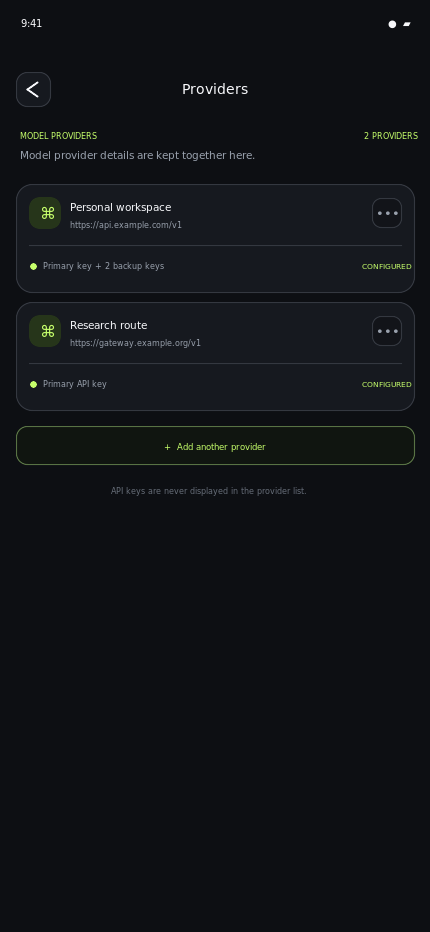
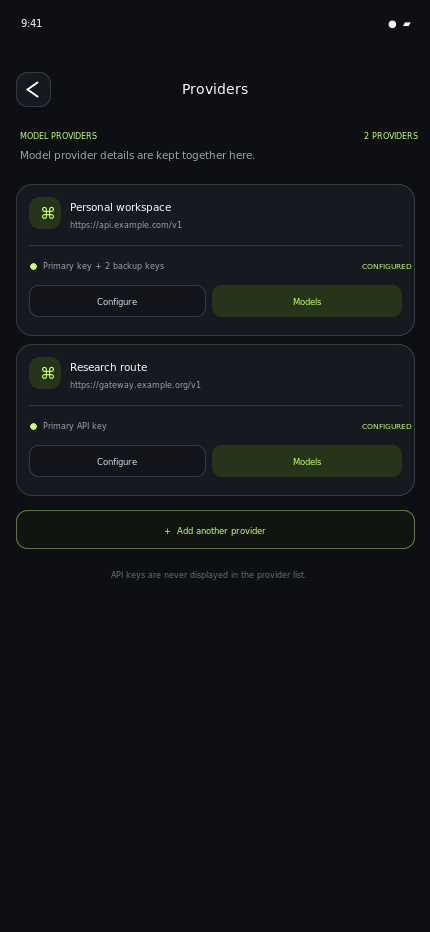
design: add provider configuration and model selection

diff --git a/settings-page.html b/settings-page.html
@@ -56,7 +56,7 @@
     .providers-topbar { display:grid; grid-template-columns:34px minmax(0,1fr) 34px; align-items:center; gap:9px; padding:calc(42px + env(safe-area-inset-top)) 16px 14px; }.providers-topbar h2 { margin:0; font-size:14px; font-weight:800; letter-spacing:-.035em; text-align:center; }.providers-back, .providers-spacer { display:grid; width:34px; height:34px; place-items:center; border:1px solid var(--line); border-radius:11px; background:var(--surface); color:var(--text); }.providers-back svg { width:16px; height:16px; fill:none; stroke:currentColor; stroke-linecap:round; stroke-linejoin:round; stroke-width:1.9; }.providers-spacer { visibility:hidden; }
     .providers-content { padding:4px 16px; }.providers-content > p { margin:0 4px 18px; color:var(--muted); font-size:11px; line-height:1.5; }.providers-empty { display:grid; min-height:340px; place-content:center; padding:26px; border:1px dashed rgba(255,255,255,.16); border-radius:20px; background:var(--surface-soft); text-align:center; }.providers-empty-icon { display:grid; width:43px; height:43px; place-items:center; margin:0 auto; border-radius:14px; background:var(--accent-wash); color:var(--accent); }.providers-empty-icon svg { width:21px; height:21px; fill:none; stroke:currentColor; stroke-linecap:round; stroke-linejoin:round; stroke-width:1.8; }.providers-empty h3 { margin:14px 0 6px; font-size:15px; letter-spacing:-.04em; }.providers-empty p { max-width:240px; margin:0; color:var(--muted); font-size:10px; line-height:1.55; }.add-provider { display:flex; align-items:center; justify-content:center; gap:7px; width:100%; height:39px; margin-top:15px; border:0; border-radius:11px; background:var(--accent); color:var(--accent-ink); font-size:10px; font-weight:850; }.add-provider svg { width:14px; height:14px; fill:none; stroke:currentColor; stroke-linecap:round; stroke-width:2.1; }
 
-    .providers-list { display:grid; gap:9px; }.providers-list-head { display:flex; align-items:center; justify-content:space-between; margin:0 4px 10px; }.providers-list-head b { color:var(--text-soft); font-size:10px; }.providers-list-head span { color:var(--accent); font-family:var(--mono); font-size:8px; }.provider-card { padding:12px; border:1px solid var(--line); border-radius:16px; background:var(--surface); }.provider-card-top { display:grid; grid-template-columns:31px minmax(0,1fr) 30px; align-items:center; gap:9px; }.provider-card-icon { display:grid; width:31px; height:31px; place-items:center; border-radius:10px; background:var(--accent-wash); color:var(--accent); }.provider-card-icon svg { width:15px; height:15px; fill:none; stroke:currentColor; stroke-linecap:round; stroke-linejoin:round; stroke-width:1.8; }.provider-card-copy { min-width:0; }.provider-card-name, .provider-card-url { display:block; overflow:hidden; text-overflow:ellipsis; white-space:nowrap; }.provider-card-name { color:var(--text); font-size:10.5px; font-weight:800; letter-spacing:-.018em; }.provider-card-url { margin-top:3px; color:var(--muted); font-family:var(--mono); font-size:8px; }.provider-menu { display:grid; width:30px; height:30px; place-items:center; border:1px solid var(--line); border-radius:9px; background:var(--surface-soft); color:var(--muted); font-size:15px; line-height:1; }.provider-card-meta { display:flex; align-items:center; justify-content:space-between; gap:9px; margin-top:11px; padding-top:10px; border-top:1px solid var(--line); }.provider-card-meta span { display:flex; align-items:center; gap:6px; min-width:0; color:var(--muted); font-family:var(--mono); font-size:8px; }.provider-card-meta i { width:6px; height:6px; flex:0 0 auto; border-radius:50%; background:var(--accent); box-shadow:0 0 0 3px var(--accent-wash); }.provider-card-meta b { color:var(--accent); font-family:var(--mono); font-size:7.5px; font-weight:500; letter-spacing:.04em; }.add-another-provider { display:flex; align-items:center; justify-content:center; gap:7px; width:100%; height:38px; margin-top:6px; border:1px dashed rgba(198,255,107,.38); border-radius:11px; background:transparent; color:var(--accent); font-family:var(--mono); font-size:8.5px; font-weight:500; }.add-another-provider svg { width:13px; height:13px; fill:none; stroke:currentColor; stroke-linecap:round; stroke-width:2; }
+    .providers-list { display:grid; gap:9px; }.providers-list-head { display:flex; align-items:center; justify-content:space-between; margin:0 4px 10px; }.providers-list-head b { color:var(--text-soft); font-size:10px; }.providers-list-head span { color:var(--accent); font-family:var(--mono); font-size:8px; }.provider-card { padding:12px; border:1px solid var(--line); border-radius:16px; background:var(--surface); }.provider-card-top { display:grid; grid-template-columns:31px minmax(0,1fr); align-items:center; gap:9px; }.provider-card-icon { display:grid; width:31px; height:31px; place-items:center; border-radius:10px; background:var(--accent-wash); color:var(--accent); }.provider-card-icon svg { width:15px; height:15px; fill:none; stroke:currentColor; stroke-linecap:round; stroke-linejoin:round; stroke-width:1.8; }.provider-card-copy { min-width:0; }.provider-card-name, .provider-card-url { display:block; overflow:hidden; text-overflow:ellipsis; white-space:nowrap; }.provider-card-name { color:var(--text); font-size:10.5px; font-weight:800; letter-spacing:-.018em; }.provider-card-url { margin-top:3px; color:var(--muted); font-family:var(--mono); font-size:8px; }.provider-card-meta { display:flex; align-items:center; justify-content:space-between; gap:9px; margin-top:11px; padding-top:10px; border-top:1px solid var(--line); }.provider-card-meta span { display:flex; align-items:center; gap:6px; min-width:0; color:var(--muted); font-family:var(--mono); font-size:8px; }.provider-card-meta i { width:6px; height:6px; flex:0 0 auto; border-radius:50%; background:var(--accent); box-shadow:0 0 0 3px var(--accent-wash); }.provider-card-meta b { color:var(--accent); font-family:var(--mono); font-size:7.5px; font-weight:500; letter-spacing:.04em; }.provider-card-actions { display:grid; grid-template-columns:1fr 1fr; gap:7px; margin-top:10px; }.provider-card-action { display:flex; align-items:center; justify-content:center; gap:5px; height:31px; border:1px solid var(--line); border-radius:9px; background:var(--surface-soft); color:var(--text-soft); font-size:8.5px; font-weight:800; }.provider-card-action:hover { border-color:rgba(198,255,107,.42); color:var(--accent); }.provider-card-action.models { border-color:transparent; background:var(--accent-wash); color:var(--accent); }.provider-card-action svg { width:13px; height:13px; fill:none; stroke:currentColor; stroke-linecap:round; stroke-linejoin:round; stroke-width:1.9; }.add-another-provider { display:flex; align-items:center; justify-content:center; gap:7px; width:100%; height:38px; margin-top:6px; border:1px dashed rgba(198,255,107,.38); border-radius:11px; background:transparent; color:var(--accent); font-family:var(--mono); font-size:8.5px; font-weight:500; }.add-another-provider svg { width:13px; height:13px; fill:none; stroke:currentColor; stroke-linecap:round; stroke-width:2; }
 
     /* Blurred add-provider modal */
     .provider-modal-layer { position:fixed; inset:0; z-index:20; display:grid; align-items:end; justify-items:center; }.provider-modal-layer[hidden] { display:none; }.provider-modal-scrim { position:absolute; inset:0; padding:0; border:0; background:rgba(4,5,7,.62); backdrop-filter:blur(13px) saturate(.72); opacity:0; transition:opacity .22s ease; }.provider-modal { position:relative; width:min(100%,470px); max-height:min(86dvh,760px); padding:12px 16px calc(20px + env(safe-area-inset-bottom)); transform:translateY(105%); overflow:auto; border:1px solid rgba(255,255,255,.12); border-bottom:0; border-radius:24px 24px 0 0; background:linear-gradient(135deg,rgba(198,255,107,.06),transparent 35%),var(--surface); box-shadow:0 -18px 60px rgba(0,0,0,.5); transition:transform .28s cubic-bezier(.2,.8,.2,1); }.provider-modal-layer.is-open .provider-modal-scrim { opacity:1; }.provider-modal-layer.is-open .provider-modal { transform:translateY(0); }.modal-handle { width:34px; height:4px; margin:0 auto 15px; border-radius:99px; background:#454b55; }.modal-head { display:flex; align-items:center; justify-content:space-between; gap:12px; margin:0 1px 16px; }.modal-head h2 { margin:0; font-size:16px; font-weight:800; letter-spacing:-.045em; }.modal-head p { margin:3px 0 0; color:var(--muted); font-family:var(--mono); font-size:8px; }.modal-close { display:grid; width:30px; height:30px; place-items:center; border:1px solid var(--line); border-radius:9px; background:var(--surface-soft); color:var(--muted); }.modal-close svg { width:14px; height:14px; fill:none; stroke:currentColor; stroke-linecap:round; stroke-linejoin:round; stroke-width:1.8; }.provider-form { display:grid; gap:12px; }.input-field { display:grid; gap:6px; }.input-field label { display:flex; align-items:center; justify-content:space-between; color:var(--text-soft); font-size:9px; font-weight:750; }.input-field label span { color:var(--quiet); font-family:var(--mono); font-size:7px; font-weight:400; }.input-field input { width:100%; height:42px; padding:0 11px; border:1px solid var(--line); border-radius:11px; outline:0; background:var(--surface-soft); color:var(--text); font-family:var(--mono); font-size:10px; transition:border-color .16s ease,box-shadow .16s ease; }.input-field input::placeholder { color:var(--quiet); }.input-field input:focus { border-color:rgba(198,255,107,.62); box-shadow:0 0 0 3px var(--accent-wash); }.backup-area { padding:12px; border:1px solid var(--line); border-radius:13px; background:var(--surface-soft); }.backup-head { display:flex; align-items:start; justify-content:space-between; gap:10px; }.backup-head b { display:block; color:var(--text-soft); font-size:9px; }.backup-head p { margin:3px 0 0; color:var(--quiet); font-family:var(--mono); font-size:7.5px; line-height:1.45; }.backup-button { display:flex; align-items:center; justify-content:center; gap:6px; width:100%; height:34px; margin-top:10px; border:1px dashed rgba(198,255,107,.38); border-radius:9px; background:transparent; color:var(--accent); font-family:var(--mono); font-size:8px; font-weight:500; }.backup-button svg { width:13px; height:13px; fill:none; stroke:currentColor; stroke-linecap:round; stroke-width:2; }.backup-list { display:grid; gap:9px; margin-top:10px; }.backup-key { display:grid; grid-template-columns:minmax(0,1fr) 29px; gap:7px; align-items:end; }.backup-key .input-field { gap:5px; }.backup-key input { height:38px; }.remove-backup { display:grid; width:29px; height:38px; place-items:center; border:1px solid var(--line); border-radius:9px; background:var(--surface); color:var(--muted); }.remove-backup svg { width:13px; height:13px; fill:none; stroke:currentColor; stroke-linecap:round; stroke-width:1.8; }.modal-actions { display:grid; grid-template-columns:1fr 1.3fr; gap:8px; margin-top:3px; }.modal-actions button { height:40px; border-radius:11px; font-size:9px; font-weight:800; }.cancel-provider { border:1px solid var(--line); background:var(--surface-soft); color:var(--text-soft); }.save-provider { border:0; background:var(--accent); color:var(--accent-ink); }
@@ -135,8 +135,8 @@
         <form class="provider-form" id="providerForm">
           <div class="input-field"><label for="providerName">Provider name <span>REQUIRED</span></label><input id="providerName" name="providerName" autocomplete="off" placeholder="e.g. My primary provider" required></div>
           <div class="input-field"><label for="baseUrl">Base URL <span>REQUIRED</span></label><input id="baseUrl" name="baseUrl" type="url" inputmode="url" autocomplete="url" placeholder="https://api.example.com/v1" required></div>
-          <div class="input-field"><label for="apiKey">API key <span>REQUIRED</span></label><input id="apiKey" name="apiKey" type="password" autocomplete="off" placeholder="Paste API key" required></div>
-          <section class="backup-area" aria-labelledby="backupTitle"><div class="backup-head"><div><b id="backupTitle">Backup API keys</b><p>Add spare keys for this provider. They are tried only if the primary key cannot be used.</p></div></div><div class="backup-list" id="backupList"></div><button class="backup-button" id="addBackupKey" type="button"><svg viewBox="0 0 24 24" aria-hidden="true"><path d="M12 5v14M5 12h14"/></svg>Add backup API key</button></section>
+          <div class="input-field"><label for="apiKey">API key <span id="apiKeyState">REQUIRED</span></label><input id="apiKey" name="apiKey" type="password" autocomplete="off" placeholder="Paste API key" required></div>
+          <section class="backup-area" aria-labelledby="backupTitle"><div class="backup-head"><div><b id="backupTitle">Backup API keys</b><p id="backupDescription">Add spare keys for this provider. They are tried only if the primary key cannot be used.</p></div></div><div class="backup-list" id="backupList"></div><button class="backup-button" id="addBackupKey" type="button"><svg viewBox="0 0 24 24" aria-hidden="true"><path d="M12 5v14M5 12h14"/></svg>Add backup API key</button></section>
           <div class="modal-actions"><button class="cancel-provider" id="cancelProvider" type="button">Cancel</button><button class="save-provider" type="submit">Save provider</button></div>
         </form>
       </section>
@@ -159,6 +159,10 @@
     const providerForm = document.getElementById('providerForm');
     const providerName = document.getElementById('providerName');
     const baseUrl = document.getElementById('baseUrl');
+    const apiKey = document.getElementById('apiKey');
+    const apiKeyState = document.getElementById('apiKeyState');
+    const backupDescription = document.getElementById('backupDescription');
+    const providerModalTitle = document.getElementById('providerModalTitle');
     const addBackupKey = document.getElementById('addBackupKey');
     const backupList = document.getElementById('backupList');
     const providersState = document.getElementById('providersState');
@@ -166,6 +170,7 @@
     let toastTimer;
     let modalCloseTimer;
     let backupCount = 0;
+    let editingProviderIndex = null;
     let modalOpener = openProviderModal;
     function showToast(message) { toast.textContent = message; toast.classList.add('show'); clearTimeout(toastTimer); toastTimer = setTimeout(() => toast.classList.remove('show'), 2200); }
     function setProviders(open) { phone.classList.toggle('providers-open', open); providersView.setAttribute('aria-hidden', String(!open)); providersButton.setAttribute('aria-expanded', String(open)); if (open) providersBack.focus(); else providersButton.focus(); }
@@ -180,7 +185,30 @@
         modalCloseTimer = setTimeout(() => { providerModalLayer.hidden = true; modalOpener?.focus(); }, 280);
       }
     }
-    function openProviderDialog(opener) { modalOpener = opener; setProviderModal(true); }
+    function openProviderDialog(opener, providerIndex = null) {
+      modalOpener = opener;
+      editingProviderIndex = providerIndex;
+      providerForm.reset();
+      backupList.replaceChildren();
+      backupCount = 0;
+      if (providerIndex === null) {
+        providerModalTitle.textContent = 'Add provider';
+        apiKeyState.textContent = 'REQUIRED';
+        apiKey.placeholder = 'Paste API key';
+        apiKey.required = true;
+        backupDescription.textContent = 'Add spare keys for this provider. They are tried only if the primary key cannot be used.';
+      } else {
+        const provider = providers[providerIndex];
+        providerModalTitle.textContent = 'Configure provider';
+        providerName.value = provider.name;
+        baseUrl.value = provider.baseUrl;
+        apiKeyState.textContent = 'OPTIONAL';
+        apiKey.placeholder = 'Paste a new key to replace the current one';
+        apiKey.required = false;
+        backupDescription.textContent = `${provider.backupCount ? `${provider.backupCount} backup ${provider.backupCount === 1 ? 'key is' : 'keys are'}` : 'No backup keys are'} configured. Add another backup key below if needed.`;
+      }
+      setProviderModal(true);
+    }
     function addBackupField() {
       backupCount += 1;
       const wrapper = document.createElement('div');
@@ -190,14 +218,15 @@
       backupList.append(wrapper);
       wrapper.querySelector('input').focus();
     }
-    function createProviderCard(provider) {
+    function createProviderCard(provider, index) {
       const card = document.createElement('article');
       card.className = 'provider-card';
-      card.innerHTML = '<div class="provider-card-top"><span class="provider-card-icon" aria-hidden="true"><svg viewBox="0 0 24 24"><path d="M8 7H5a2 2 0 0 0-2 2v3m18 0V9a2 2 0 0 0-2-2h-3M8 17H5a2 2 0 0 1-2 2h-3M21 12h-3"/><path d="M8 12h8M12 8v8"/></svg></span><span class="provider-card-copy"><b class="provider-card-name"></b><span class="provider-card-url"></span></span><button class="provider-menu" type="button" aria-label="Provider actions">•••</button></div><div class="provider-card-meta"><span><i></i><span class="provider-key-count"></span></span><b>CONFIGURED</b></div>';
+      card.innerHTML = '<div class="provider-card-top"><span class="provider-card-icon" aria-hidden="true"><svg viewBox="0 0 24 24"><path d="M8 7H5a2 2 0 0 0-2 2v3m18 0V9a2 2 0 0 0-2-2h-3M8 17H5a2 2 0 0 1-2 2h-3M21 12h-3"/><path d="M8 12h8M12 8v8"/></svg></span><span class="provider-card-copy"><b class="provider-card-name"></b><span class="provider-card-url"></span></span></div><div class="provider-card-meta"><span><i></i><span class="provider-key-count"></span></span><b>CONFIGURED</b></div><div class="provider-card-actions"><button class="provider-card-action configure" type="button"><svg viewBox="0 0 24 24" aria-hidden="true"><path d="M12 20h9"/><path d="M16.5 3.5a2.1 2.1 0 0 1 3 3L8 18l-4 1 1-4Z"/></svg>Configure</button><button class="provider-card-action models" type="button"><svg viewBox="0 0 24 24" aria-hidden="true"><path d="M12 3v18M3 12h18M5.6 5.6l12.8 12.8M18.4 5.6 5.6 18.4"/></svg>Models</button></div>';
       card.querySelector('.provider-card-name').textContent = provider.name;
       card.querySelector('.provider-card-url').textContent = provider.baseUrl;
       card.querySelector('.provider-key-count').textContent = provider.backupCount ? `Primary key + ${provider.backupCount} backup ${provider.backupCount === 1 ? 'key' : 'keys'}` : 'Primary API key';
-      card.querySelector('.provider-menu').addEventListener('click', () => showToast('Provider actions open in the implementation phase'));
+      card.querySelector('.configure').addEventListener('click', (event) => openProviderDialog(event.currentTarget, index));
+      card.querySelector('.models').addEventListener('click', () => { window.location.href = `models-page.html?provider=${encodeURIComponent(provider.name)}`; });
       return card;
     }
     function renderProviders() {
@@ -209,7 +238,7 @@
       heading.innerHTML = '<b>Your providers</b><span></span>';
       heading.querySelector('span').textContent = `${providers.length} ${providers.length === 1 ? 'provider' : 'providers'}`;
       list.append(heading);
-      providers.forEach((provider) => list.append(createProviderCard(provider)));
+      providers.forEach((provider, index) => list.append(createProviderCard(provider, index)));
       const addAnother = document.createElement('button');
       addAnother.className = 'add-another-provider';
       addAnother.type = 'button';
@@ -228,13 +257,18 @@
     providerForm.addEventListener('submit', (event) => {
       event.preventDefault();
       // This design demo deliberately retains only display metadata, never the entered API key values.
-      providers.push({ name: providerName.value.trim(), baseUrl: baseUrl.value.trim(), backupCount: backupList.querySelectorAll('input').length });
+      const newBackupCount = backupList.querySelectorAll('input').length;
+      const provider = { name: providerName.value.trim(), baseUrl: baseUrl.value.trim(), backupCount: editingProviderIndex === null ? newBackupCount : providers[editingProviderIndex].backupCount + newBackupCount };
+      const wasEditing = editingProviderIndex !== null;
+      if (wasEditing) providers[editingProviderIndex] = provider;
+      else providers.push(provider);
       providerForm.reset();
       backupList.replaceChildren();
       backupCount = 0;
+      editingProviderIndex = null;
       renderProviders();
       setProviderModal(false);
-      showToast('Provider added — design prototype only');
+      showToast(wasEditing ? 'Provider updated — design prototype only' : 'Provider added — design prototype only');
     });
     document.addEventListener('keydown', (event) => { if (event.key !== 'Escape') return; if (!providerModalLayer.hidden) setProviderModal(false); else if (phone.classList.contains('providers-open')) setProviders(false); });
     document.querySelectorAll('.toggle').forEach((toggle) => toggle.addEventListener('click', () => { const enabled = toggle.getAttribute('aria-pressed') === 'true'; toggle.setAttribute('aria-pressed', String(!enabled)); }));

diff --git a/models-page.html b/models-page.html
@@ -1,0 +1,116 @@
+<!doctype html>
+<html lang="en">
+<head>
+  <meta charset="utf-8">
+  <meta name="viewport" content="width=device-width, initial-scale=1, viewport-fit=cover">
+  <meta name="theme-color" content="#0d0f13">
+  <meta name="description" content="Neural Ink model management page design for Glow Agent.">
+  <link rel="preconnect" href="https://fonts.googleapis.com">
+  <link rel="preconnect" href="https://fonts.gstatic.com" crossorigin>
+  <link href="https://fonts.googleapis.com/css2?family=DM+Mono:wght@400;500&family=Manrope:wght@400;500;600;700;800&display=swap" rel="stylesheet">
+  <title>Models — Glow Agent</title>
+  <style>
+    :root { color-scheme:dark; --canvas:#090a0d;--bg:#0d0f13;--surface:#16191f;--surface-raised:#1d2129;--surface-soft:#121419;--text:#f7f8fb;--text-soft:#d5d9e1;--muted:#99a1ad;--quiet:#676e79;--line:rgba(255,255,255,.095);--accent:#c6ff6b;--accent-ink:#10150a;--accent-wash:rgba(198,255,107,.11);--violet:#a99cff;--violet-wash:rgba(169,156,255,.13);--blue:#81d9ff;--font:"Manrope",Inter,ui-sans-serif,system-ui,sans-serif;--mono:"DM Mono","SFMono-Regular",Consolas,monospace;--shadow:0 26px 66px rgba(0,0,0,.42); }
+    * { box-sizing:border-box; } html { min-width:320px;background:var(--canvas); } body { min-width:320px;min-height:100dvh;margin:0;background:radial-gradient(circle at 85% 0%,rgba(169,156,255,.14),transparent 29rem),var(--canvas);color:var(--text);font-family:var(--font);-webkit-font-smoothing:antialiased;text-rendering:optimizeLegibility; } button,a { font:inherit; } button { cursor:pointer; } button:focus-visible,a:focus-visible { outline:3px solid var(--accent);outline-offset:3px; }.mono,.status,.section-label,.provider-meta,.model-id,.model-meta,.fetch-note,.toast { font-family:var(--mono); }
+    .phone { width:min(100%,470px);min-height:100dvh;margin:0 auto;padding-bottom:calc(32px + env(safe-area-inset-bottom));background:radial-gradient(circle at 100% -2%,rgba(198,255,107,.07),transparent 25rem),var(--bg);box-shadow:0 0 0 1px rgba(255,255,255,.035),var(--shadow); }.status { display:flex;align-items:center;justify-content:space-between;height:calc(29px + env(safe-area-inset-top));padding:env(safe-area-inset-top) 21px 0;color:var(--text);font-size:10px;font-weight:500; }.status-signals { display:flex;align-items:center;gap:6px }.signal { display:inline-flex;align-items:end;gap:1px;height:10px }.signal i { display:block;width:2px;border-radius:2px;background:currentColor }.signal i:nth-child(1){height:3px}.signal i:nth-child(2){height:5px}.signal i:nth-child(3){height:7px}.signal i:nth-child(4){height:9px}.wifi{width:12px;height:9px;border:1.5px solid currentColor;border-bottom:0;border-radius:12px 12px 0 0;opacity:.94}.battery{width:19px;height:9px;padding:1px;border:1.2px solid currentColor;border-radius:3px}.battery::before{content:"";display:block;width:70%;height:100%;border-radius:1px;background:currentColor}
+    .topbar { display:grid;grid-template-columns:34px minmax(0,1fr) 34px;align-items:center;gap:9px;padding:13px 16px 14px }.back,.top-spacer { display:grid;width:34px;height:34px;place-items:center;border:1px solid var(--line);border-radius:11px;background:var(--surface);color:var(--text);text-decoration:none }.back svg{width:16px;height:16px;fill:none;stroke:currentColor;stroke-linecap:round;stroke-linejoin:round;stroke-width:1.9}.top-spacer{visibility:hidden}.topbar h1{overflow:hidden;margin:0;color:var(--text);font-size:14px;font-weight:800;letter-spacing:-.035em;text-align:center;text-overflow:ellipsis;white-space:nowrap}
+    .intro { padding:4px 20px 20px }.eyebrow { margin:0 0 6px;color:var(--accent);font-family:var(--mono);font-size:8px;font-weight:500;letter-spacing:.105em;text-transform:uppercase }.intro p { margin:0;color:var(--muted);font-size:11px;line-height:1.5 }.intro p strong { color:var(--text-soft);font-weight:750 }
+    .content { display:grid;gap:22px;padding:0 16px }.section-label { display:flex;align-items:center;justify-content:space-between;margin:0 4px 8px;color:var(--quiet);font-size:8px;font-weight:500;letter-spacing:.08em;text-transform:uppercase }.section-label span:last-child { color:var(--accent) }.provider-context { display:flex;align-items:center;gap:9px;padding:10px 12px;border:1px solid var(--line);border-radius:13px;background:var(--surface) }.provider-icon { display:grid;width:29px;height:29px;place-items:center;flex:0 0 auto;border-radius:9px;background:var(--accent-wash);color:var(--accent) }.provider-icon svg { width:15px;height:15px;fill:none;stroke:currentColor;stroke-linecap:round;stroke-linejoin:round;stroke-width:1.8 }.provider-copy { min-width:0;flex:1 }.provider-copy b,.provider-copy span { display:block;overflow:hidden;text-overflow:ellipsis;white-space:nowrap }.provider-copy b { color:var(--text);font-size:10px;font-weight:800 }.provider-copy span { margin-top:3px;color:var(--muted);font-family:var(--mono);font-size:8px }.provider-context button { display:grid;width:29px;height:29px;place-items:center;border:1px solid var(--line);border-radius:9px;background:var(--surface-soft);color:var(--muted) }.provider-context button svg { width:14px;height:14px;fill:none;stroke:currentColor;stroke-linecap:round;stroke-linejoin:round;stroke-width:1.8 }
+    .selected-box { overflow:hidden;border:1px solid var(--line);border-radius:16px;background:var(--surface) }.selected-empty { display:grid;min-height:108px;place-content:center;padding:16px;text-align:center }.selected-empty svg { width:20px;height:20px;margin:0 auto 8px;fill:none;stroke:var(--quiet);stroke-linecap:round;stroke-linejoin:round;stroke-width:1.7 }.selected-empty b { color:var(--text-soft);font-size:10px }.selected-empty p { margin:4px 0 0;color:var(--muted);font-size:8.5px }.selected-list { display:grid;gap:0 }.selected-row { display:grid;grid-template-columns:29px minmax(0,1fr) 29px;align-items:center;gap:9px;min-height:55px;padding:9px 11px;border-bottom:1px solid var(--line) }.selected-row:last-child { border-bottom:0 }.model-orb { display:grid;width:29px;height:29px;place-items:center;border-radius:9px;background:var(--accent-wash);color:var(--accent);font-family:var(--mono);font-size:10px;font-weight:500 }.model-copy { min-width:0 }.model-id,.model-meta { display:block;overflow:hidden;text-overflow:ellipsis;white-space:nowrap }.model-id { color:var(--text);font-size:9.5px;font-weight:500 }.model-meta { margin-top:3px;color:var(--muted);font-size:7.5px }.remove-model { display:grid;width:29px;height:29px;place-items:center;border:1px solid var(--line);border-radius:9px;background:var(--surface-soft);color:var(--muted) }.remove-model svg { width:13px;height:13px;fill:none;stroke:currentColor;stroke-linecap:round;stroke-linejoin:round;stroke-width:1.8 }
+    .fetch-card { padding:12px;border:1px solid rgba(198,255,107,.18);border-radius:16px;background:linear-gradient(135deg,rgba(198,255,107,.075),transparent 64%),var(--surface) }.fetch-head { display:flex;align-items:start;justify-content:space-between;gap:10px }.fetch-head h2 { margin:0;color:var(--text);font-size:11px;font-weight:800;letter-spacing:-.02em }.fetch-head p { margin:4px 0 0;color:var(--muted);font-size:8.5px;line-height:1.45 }.fetch-button { display:flex;align-items:center;justify-content:center;gap:6px;width:100%;height:37px;margin-top:12px;border:0;border-radius:10px;background:var(--accent);color:var(--accent-ink);font-size:9px;font-weight:850 }.fetch-button svg { width:14px;height:14px;fill:none;stroke:currentColor;stroke-linecap:round;stroke-linejoin:round;stroke-width:2 }.fetch-button.loading svg { animation:spin .7s linear infinite } @keyframes spin { to { transform:rotate(360deg) } }.fetch-note { margin:8px 2px 0;color:var(--quiet);font-size:7.5px;line-height:1.45;text-align:center }
+    .fetched-list { display:grid;gap:7px;margin-top:12px }.fetched-row { display:grid;grid-template-columns:29px minmax(0,1fr) auto;align-items:center;gap:9px;width:100%;min-height:51px;padding:8px 9px;border:1px solid var(--line);border-radius:12px;background:var(--surface-soft);color:var(--text);text-align:left }.fetched-row:hover { border-color:rgba(198,255,107,.35);background:var(--surface-raised) }.fetched-row[aria-pressed="true"] { border-color:rgba(198,255,107,.42);background:var(--accent-wash) }.fetched-row .model-orb { width:29px;height:29px;background:var(--violet-wash);color:var(--violet) }.fetched-row[aria-pressed="true"] .model-orb { background:var(--accent);color:var(--accent-ink) }.fetched-row .model-copy b,.fetched-row .model-copy span { display:block;overflow:hidden;text-overflow:ellipsis;white-space:nowrap }.fetched-row .model-copy b { font-family:var(--mono);font-size:8.5px;font-weight:500 }.fetched-row .model-copy span { margin-top:3px;color:var(--muted);font-size:7.5px }.model-select-state { display:grid;width:22px;height:22px;place-items:center;border:1px solid var(--line);border-radius:7px;color:var(--quiet);font-size:12px }.fetched-row[aria-pressed="true"] .model-select-state { border-color:transparent;background:var(--accent);color:var(--accent-ink) }.fetch-empty { display:grid;place-content:center;min-height:105px;margin-top:12px;padding:14px;border:1px dashed rgba(255,255,255,.14);border-radius:12px;color:var(--quiet);font-family:var(--mono);font-size:8px;text-align:center }
+    .toast { position:fixed;bottom:22px;left:50%;z-index:5;max-width:calc(100% - 36px);padding:9px 11px;transform:translate(-50%,14px);border:1px solid rgba(198,255,107,.22);border-radius:9px;background:#1d2520;color:var(--accent);box-shadow:0 10px 24px rgba(0,0,0,.28);font-size:8px;opacity:0;pointer-events:none;transition:opacity .2s ease,transform .2s ease }.toast.show { transform:translate(-50%,0);opacity:1 } @media (min-width:600px){body{padding:24px 0}.phone{min-height:calc(100dvh - 48px);border-radius:30px}} @media (prefers-reduced-motion:reduce){*,*::before,*::after{animation-duration:.01ms!important;transition-duration:.01ms!important}}
+  </style>
+</head>
+<body>
+  <main class="phone">
+    <div class="status" aria-hidden="true"><span>9:41</span><span class="status-signals"><span class="signal"><i></i><i></i><i></i><i></i></span><span class="wifi"></span><span class="battery"></span></span></div>
+    <header class="topbar"><a class="back" href="settings-page.html" aria-label="Back to provider settings"><svg viewBox="0 0 24 24" aria-hidden="true"><path d="m15 18-6-6 6-6"/></svg></a><h1>Models</h1><span class="top-spacer" aria-hidden="true"></span></header>
+    <section class="intro"><p class="eyebrow">Provider models</p><p>Select the models this provider can use. Fetching discovers what is available from the current provider connection.</p></section>
+
+    <div class="content">
+      <section aria-label="Current provider"><div class="provider-context"><span class="provider-icon" aria-hidden="true"><svg viewBox="0 0 24 24"><path d="M8 7H5a2 2 0 0 0-2 2v3m18 0V9a2 2 0 0 0-2-2h-3M8 17H5a2 2 0 0 1-2 2h-3M21 12h-3"/><path d="M8 12h8M12 8v8"/></svg></span><span class="provider-copy"><b id="providerName">Provider</b><span>Model availability and selection</span></span><button type="button" id="changeProvider" aria-label="Return to provider settings"><svg viewBox="0 0 24 24" aria-hidden="true"><path d="m9 18 6-6-6-6"/></svg></button></div></section>
+
+      <section aria-labelledby="selectedTitle"><div class="section-label"><span id="selectedTitle">Selected models</span><span id="selectedCount">0 selected</span></div><div class="selected-box" id="selectedModels"><div class="selected-empty"><svg viewBox="0 0 24 24" aria-hidden="true"><path d="M12 3v18M3 12h18M5.6 5.6l12.8 12.8M18.4 5.6 5.6 18.4"/></svg><b>No models selected</b><p>Fetch the provider’s available models, then tap to select.</p></div></div></section>
+
+      <section aria-labelledby="fetchTitle"><div class="section-label"><span id="fetchTitle">Fetch models</span><span id="fetchCount"></span></div><article class="fetch-card"><div class="fetch-head"><div><h2>Discover available models</h2><p>Fetch model IDs from this provider, then choose the models this workspace can use.</p></div></div><button class="fetch-button" id="fetchModels" type="button"><svg viewBox="0 0 24 24" aria-hidden="true"><path d="M21 12a9 9 0 0 1-15.5 6.2L3 16m0 5v-5h5"/><path d="M3 12A9 9 0 0 1 18.5 5.8L21 8m0-5v5h-5"/></svg><span>Fetch models</span></button><p class="fetch-note">In the live app, this request is made by the local backend using the saved provider connection.</p><div id="fetchedModels"><div class="fetch-empty">Tap Fetch models to discover available model IDs.</div></div></article></section>
+    </div>
+    <div class="toast" id="toast" role="status" aria-live="polite"></div>
+  </main>
+  <script>
+    const query = new URLSearchParams(window.location.search);
+    const providerName = query.get('provider') || 'Personal workspace';
+    document.getElementById('providerName').textContent = providerName;
+    document.title = `Models — ${providerName}`;
+
+    const fetched = [
+      { id: 'gpt-4.1-mini', detail: 'Fast general-purpose model' },
+      { id: 'gpt-4.1', detail: 'Advanced reasoning and coding' },
+      { id: 'gpt-4o-mini', detail: 'Compact multimodal model' },
+      { id: 'text-embedding-3-small', detail: 'Embedding model' }
+    ];
+    const selected = new Set();
+    const selectedModels = document.getElementById('selectedModels');
+    const selectedCount = document.getElementById('selectedCount');
+    const fetchedModels = document.getElementById('fetchedModels');
+    const fetchCount = document.getElementById('fetchCount');
+    const fetchButton = document.getElementById('fetchModels');
+    const toast = document.getElementById('toast');
+    let hasFetched = false;
+    let toastTimer;
+    function showToast(message) { toast.textContent = message; toast.classList.add('show'); clearTimeout(toastTimer); toastTimer = setTimeout(() => toast.classList.remove('show'), 2200); }
+    function modelShortName(id) { return id.startsWith('text-') ? 'EM' : id.split('-').slice(0, 2).join('').toUpperCase().slice(0, 3); }
+    function renderSelected() {
+      selectedModels.replaceChildren();
+      selectedCount.textContent = `${selected.size} ${selected.size === 1 ? 'selected' : 'selected'}`;
+      if (!selected.size) {
+        selectedModels.innerHTML = '<div class="selected-empty"><svg viewBox="0 0 24 24" aria-hidden="true"><path d="M12 3v18M3 12h18M5.6 5.6l12.8 12.8M18.4 5.6 5.6 18.4"/></svg><b>No models selected</b><p>Fetch the provider’s available models, then tap to select.</p></div>';
+        return;
+      }
+      const list = document.createElement('div');
+      list.className = 'selected-list';
+      selected.forEach((id) => {
+        const model = fetched.find((entry) => entry.id === id);
+        const row = document.createElement('div');
+        row.className = 'selected-row';
+        row.innerHTML = '<span class="model-orb"></span><span class="model-copy"><b class="model-id"></b><span class="model-meta"></span></span><button class="remove-model" type="button" aria-label="Remove selected model"><svg viewBox="0 0 24 24" aria-hidden="true"><path d="m18 6-12 12M6 6l12 12"/></svg></button>';
+        row.querySelector('.model-orb').textContent = modelShortName(model.id);
+        row.querySelector('.model-id').textContent = model.id;
+        row.querySelector('.model-meta').textContent = model.detail;
+        row.querySelector('.remove-model').addEventListener('click', () => { selected.delete(id); renderSelected(); renderFetched(); });
+        list.append(row);
+      });
+      selectedModels.append(list);
+    }
+    function renderFetched() {
+      fetchedModels.replaceChildren();
+      if (!hasFetched) { fetchedModels.innerHTML = '<div class="fetch-empty">Tap Fetch models to discover available model IDs.</div>'; return; }
+      fetchCount.textContent = `${fetched.length} found`;
+      const list = document.createElement('div');
+      list.className = 'fetched-list';
+      fetched.forEach((model) => {
+        const button = document.createElement('button');
+        const selectedState = selected.has(model.id);
+        button.className = 'fetched-row';
+        button.type = 'button';
+        button.setAttribute('aria-pressed', String(selectedState));
+        button.innerHTML = '<span class="model-orb"></span><span class="model-copy"><b></b><span></span></span><span class="model-select-state" aria-hidden="true"></span>';
+        button.querySelector('.model-orb').textContent = modelShortName(model.id);
+        button.querySelector('.model-copy b').textContent = model.id;
+        button.querySelector('.model-copy span').textContent = model.detail;
+        button.querySelector('.model-select-state').textContent = selectedState ? '✓' : '+';
+        button.addEventListener('click', () => { if (selected.has(model.id)) selected.delete(model.id); else selected.add(model.id); renderSelected(); renderFetched(); });
+        list.append(button);
+      });
+      fetchedModels.append(list);
+    }
+    fetchButton.addEventListener('click', () => {
+      fetchButton.disabled = true;
+      fetchButton.classList.add('loading');
+      fetchButton.querySelector('span').textContent = 'Fetching models…';
+      setTimeout(() => { hasFetched = true; fetchButton.disabled = false; fetchButton.classList.remove('loading'); fetchButton.querySelector('span').textContent = 'Refresh models'; renderFetched(); showToast(`${fetched.length} models found`); }, 650);
+    });
+    document.getElementById('changeProvider').addEventListener('click', () => { window.location.href = 'settings-page.html'; });
+  </script>
+</body>
+</html>

diff --git a/README.md b/README.md
@@ -6,6 +6,7 @@ Planning for a mobile-friendly web application with a JavaScript backend running
 - [Mobile UI design exploration](design-exploration.html) — a self-contained, interactive HTML review with three palettes and three mobile-screen directions.
 - [Neural Ink chat-page design](chat-page.html) — the selected dark/precise mobile chat direction, without bottom navigation. Its left icon opens an accessible chat-history drawer; the top-centre session title truncates long names with an ellipsis.
 - [Neural Ink settings-page design](settings-page.html) — the first dedicated settings screen. Its Providers button opens a focused in-page Providers section; Add provider opens a blurred modal with primary and unlimited backup-key inputs.
-- `design-previews/` — PNG previews for Neural Ink / Focus Chat, Iris Signal / Agent Run, Paper Circuit / Skills & Tools, the selected [Neural Ink chat page](design-previews/neural-ink-chat-page.png), its [chat-history drawer](design-previews/neural-ink-chat-history.png), [settings page](design-previews/neural-ink-settings-page.png), [Providers section](design-previews/neural-ink-providers-section.png), [Add provider modal](design-previews/neural-ink-add-provider-modal.png), and [configured Providers](design-previews/neural-ink-providers-populated.png).
+- [Neural Ink models-page design](models-page.html) — the provider-level Models page with separate Selected models and Fetch models sections.
+- `design-previews/` — PNG previews for Neural Ink / Focus Chat, Iris Signal / Agent Run, Paper Circuit / Skills & Tools, the selected [Neural Ink chat page](design-previews/neural-ink-chat-page.png), its [chat-history drawer](design-previews/neural-ink-chat-history.png), [settings page](design-previews/neural-ink-settings-page.png), [Providers section](design-previews/neural-ink-providers-section.png), [Add provider modal](design-previews/neural-ink-add-provider-modal.png), [configured Providers](design-previews/neural-ink-providers-populated.png), and [Models after fetch](design-previews/neural-ink-models-page.png).
 
 The product brief is the next required step before implementation. The plan lists the exact decisions needed and the proposed frontend, backend, security, database, and Termux approach.
